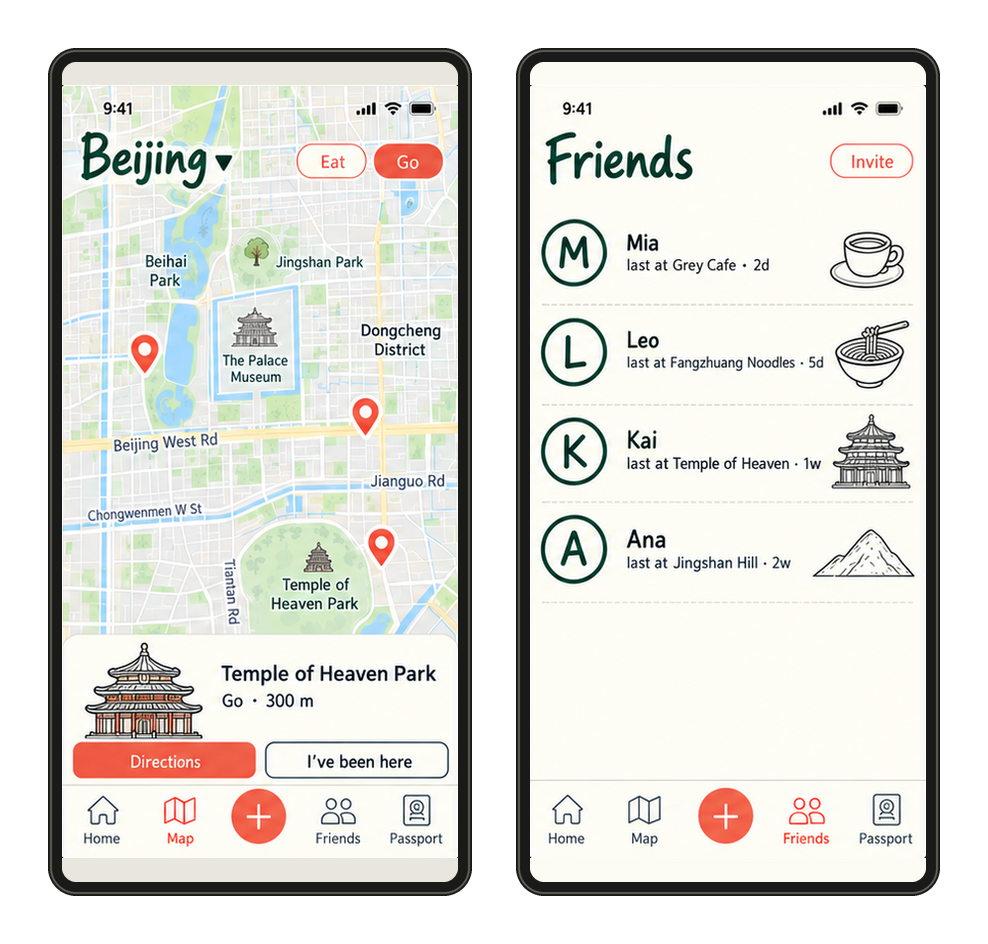
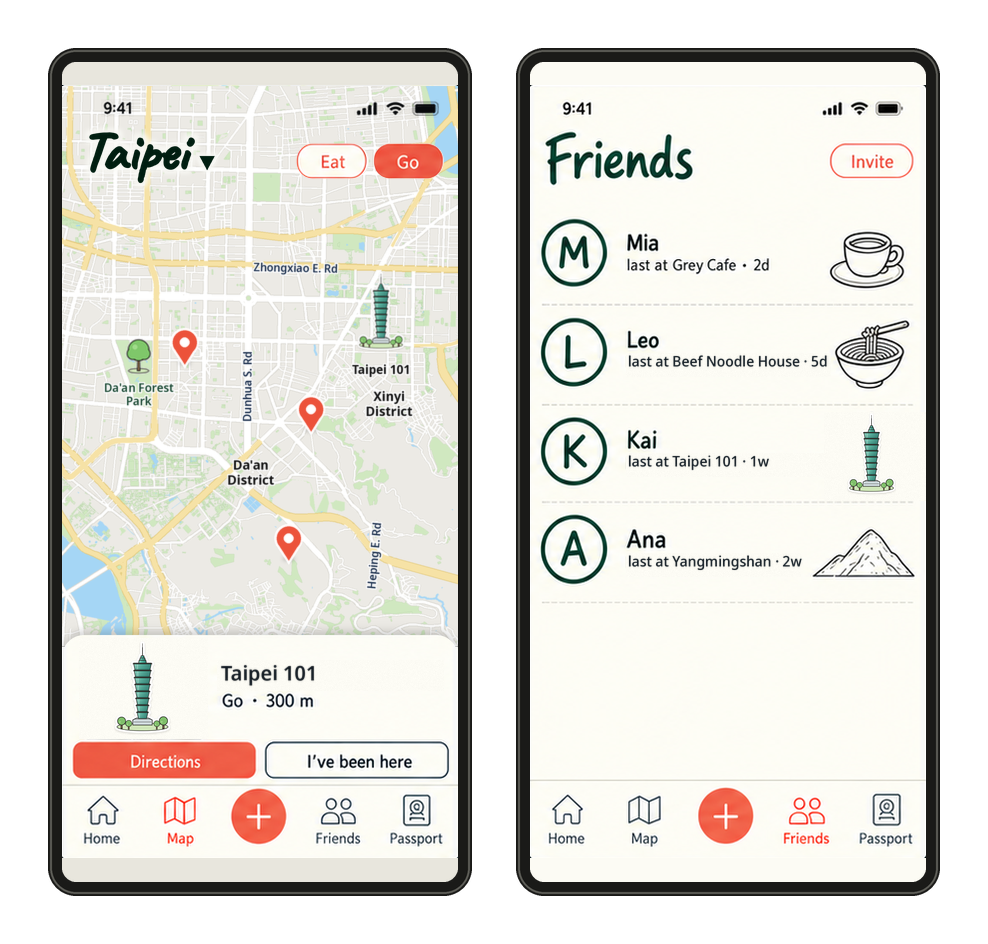
fix(landing): Taipei screenshots LCP hints and OSM attribution (#20)
* chore(assets): replace landing app screenshots with Taipei content (image-only)

* fix(landing): eager first-screen Taipei screenshot and OSM credit

Promote the visible language's first-screen app screenshot to eager +
fetchpriority=high so it can be LCP, keep the hidden zh/en twin lazy,
and add the CEO-approved OpenStreetMap attribution line in the footer.

* fix(landing): keep homepage static; eager only zh first-screen

Stop reading searchParams in page.tsx so `/` stays a CDN-cached static
route. Default-language phones-zh-2 is eager + fetchpriority=high; the
en twin stays lazy and loads when shown.

---------

diff --git a/tests/e2e/landing-lcp.spec.ts b/tests/e2e/landing-lcp.spec.ts
@@ -1,0 +1,154 @@
+import { expect, test, type Page } from "@playwright/test";
+import { noHorizontalOverflow } from "./helpers";
+
+async function firstScreenAttrs(page: Page, testId: string) {
+  const img = page.getByTestId(testId);
+  await expect(img).toHaveCount(1);
+  return {
+    loading: await img.getAttribute("loading"),
+    fetchPriority: (await img.getAttribute("fetchpriority")) ?? (await img.getAttribute("fetchPriority")),
+    src: await img.getAttribute("src"),
+  };
+}
+
+async function assertStaticFirstScreenHints(page: Page) {
+  const zh = await firstScreenAttrs(page, "first-screen-phone-zh");
+  const en = await firstScreenAttrs(page, "first-screen-phone-en");
+
+  expect(zh.loading, "default-language first-screen loading").toBe("eager");
+  expect(zh.fetchPriority, "default-language first-screen fetchpriority").toBe("high");
+  expect(en.loading, "en first-screen twin must stay lazy").toBe("lazy");
+  expect(en.fetchPriority, "en first-screen twin must not be high").not.toBe("high");
+}
+
+async function assertBelowFoldLazy(page: Page) {
+  const below = page.locator(
+    'img[src*="phones-zh-3"], img[src*="phones-en-3"], img[src*="phones-zh-4"], img[src*="phones-en-4"]',
+  );
+  const count = await below.count();
+  expect(count).toBe(4);
+  for (let i = 0; i < count; i++) {
+    await expect(below.nth(i)).toHaveAttribute("loading", "lazy");
+  }
+}
+
+test.describe("first-screen LCP hints and OSM credit", () => {
+  for (const { name, viewport } of [
+    { name: "desktop", viewport: { width: 1350, height: 940 } },
+    { name: "mobile", viewport: { width: 390, height: 844 } },
+  ]) {
+    test(`${name} zh first-screen is eager+high; en twin and below-fold stay lazy`, async ({ page }) => {
+      await page.setViewportSize(viewport);
+      const requested: string[] = [];
+      page.on("request", (req) => {
+        if (req.resourceType() === "image") requested.push(req.url());
+      });
+      await page.goto("/");
+      await page.waitForLoadState("domcontentloaded");
+      await assertStaticFirstScreenHints(page);
+      await assertBelowFoldLazy(page);
+
+      const phoneReqs = requested.filter((url) => /phones-(zh|en)-\d\.png/.test(url));
+      expect(phoneReqs.some((url) => url.includes("phones-zh-2.png"))).toBeTruthy();
+      expect(phoneReqs.some((url) => url.includes("phones-en-2.png")), "hidden en first-screen must not be fetched").toBeFalsy();
+    });
+
+    test(`${name} ?lang=en keeps static hints; en-2 loads when shown`, async ({ page }) => {
+      await page.setViewportSize(viewport);
+      const requested: string[] = [];
+      page.on("request", (req) => {
+        if (req.resourceType() === "image") requested.push(req.url());
+      });
+      await page.goto("/?lang=en");
+      await page.waitForLoadState("domcontentloaded");
+      await expect(page.locator("html")).toHaveAttribute("lang", "en");
+      await assertStaticFirstScreenHints(page);
+      await assertBelowFoldLazy(page);
+      await page.getByTestId("first-screen-phone-en").scrollIntoViewIfNeeded();
+      await expect(page.getByTestId("first-screen-phone-en")).toBeVisible();
+      await page.waitForTimeout(500);
+
+      const phoneReqs = requested.filter((url) => /phones-(zh|en)-\d\.png/.test(url));
+      expect(phoneReqs.some((url) => url.includes("phones-en-2.png"))).toBeTruthy();
+    });
+  }
+
+  for (const { label, viewport } of [
+    { label: "1350x940", viewport: { width: 1350, height: 940 } },
+    { label: "1440x900", viewport: { width: 1440, height: 900 } },
+    { label: "1920x1080", viewport: { width: 1920, height: 1080 } },
+    { label: "390x844", viewport: { width: 390, height: 844 } },
+  ]) {
+    test(`E-1 LCP at ${label} is not the map or a food photo`, async ({ page }) => {
+      await page.setViewportSize(viewport);
+      await page.goto("/");
+      await page.waitForLoadState("domcontentloaded");
+      await page.waitForTimeout(1500);
+      const lcp = await page.evaluate(() => {
+        return new Promise<{
+          tag: string;
+          src: string;
+          inMap: boolean;
+          isHeadline: boolean;
+          isBadge: boolean;
+          isFirstScreen: boolean;
+          isFood: boolean;
+        }>((resolve) => {
+          let last: PerformanceEntry & { element?: Element } | undefined;
+          const po = new PerformanceObserver((list) => {
+            last = list.getEntries().at(-1) as PerformanceEntry & { element?: Element };
+          });
+          po.observe({ type: "largest-contentful-paint", buffered: true });
+          setTimeout(() => {
+            po.disconnect();
+            const el = last?.element as HTMLElement | undefined;
+            const src = el instanceof HTMLImageElement ? el.getAttribute("src") ?? "" : "";
+            resolve({
+              tag: el?.tagName ?? "NONE",
+              src,
+              inMap: Boolean(el?.closest?.(".mapwrap, #mapcard, .map-slot, .map-stage")),
+              isHeadline: Boolean(el?.closest?.("h1, .hero .txt .h")),
+              isBadge: Boolean(el?.closest?.("[data-testid=hero-appstore]")),
+              isFirstScreen: Boolean(
+                el?.closest?.("[data-testid=first-screen-phone-zh], [data-testid=first-screen-phone-en]"),
+              ),
+              isFood: src.includes("/assets/food/") || Boolean(el?.closest?.(".ph, .fc .ph")),
+            });
+          }, 400);
+        });
+      });
+      expect(lcp.inMap, `${label} LCP was ${lcp.tag} inside the map`).toBeFalsy();
+      expect(lcp.isFood, `${label} LCP was food photo ${lcp.src}`).toBeFalsy();
+      expect(
+        lcp.isHeadline || lcp.isBadge || lcp.isFirstScreen,
+        `${label} LCP was ${lcp.tag} ${lcp.src}`,
+      ).toBeTruthy();
+    });
+  }
+
+  test("OSM attribution link is present with the licence href", async ({ page }) => {
+    await page.goto("/");
+    const link = page.getByTestId("osm-attribution");
+    await expect(link).toHaveText("Map data © OpenStreetMap contributors");
+    await expect(link).toHaveAttribute("href", "https://www.openstreetmap.org/copyright");
+    await expect(link).toHaveAttribute("rel", "noopener noreferrer");
+    await expect(link).toHaveCount(1);
+
+    await page.goto("/?lang=en");
+    await expect(page.getByTestId("osm-attribution")).toHaveAttribute(
+      "href",
+      "https://www.openstreetmap.org/copyright",
+    );
+    await expect(page.getByTestId("osm-attribution")).toHaveCount(1);
+  });
+
+  for (const width of [375, 390]) {
+    test(`OSM footer does not overflow at ${width}`, async ({ page }) => {
+      await page.setViewportSize({ width, height: 844 });
+      await page.goto("/");
+      await page.locator("footer.site").scrollIntoViewIfNeeded();
+      await expect(page.getByTestId("osm-attribution")).toBeVisible();
+      await noHorizontalOverflow(page);
+    });
+  }
+});

diff --git a/tests/e2e/hero-content.spec.ts b/tests/e2e/hero-content.spec.ts
@@ -77,7 +77,9 @@ test.describe("hero content and motion", () => {
     expect(firstParty).toEqual([]);
   });
 
-  test("E-1 LCP is the hero headline or badge, not the map", async ({ page }) => {
+  test("E-1 LCP is the hero headline, badge, or first-screen app screenshot — not the map or a food photo", async ({
+    page,
+  }) => {
     await page.setViewportSize({ width: 390, height: 844 });
     await page.goto("/");
     await page.waitForLoadState("domcontentloaded");
@@ -85,9 +87,12 @@ test.describe("hero content and motion", () => {
     const lcp = await page.evaluate(() => {
       return new Promise<{
         tag: string;
+        src: string;
         inMap: boolean;
         isHeadline: boolean;
         isBadge: boolean;
+        isFirstScreen: boolean;
+        isFood: boolean;
       }>((resolve) => {
         let last: PerformanceEntry & { element?: Element } | undefined;
         const po = new PerformanceObserver((list) => {
@@ -97,17 +102,27 @@ test.describe("hero content and motion", () => {
         setTimeout(() => {
           po.disconnect();
           const el = last?.element as HTMLElement | undefined;
+          const src = el instanceof HTMLImageElement ? el.getAttribute("src") ?? "" : "";
           resolve({
             tag: el?.tagName ?? "NONE",
-            inMap: Boolean(el?.closest?.(".mapwrap, #mapcard, .map-slot")),
+            src,
+            inMap: Boolean(el?.closest?.(".mapwrap, #mapcard, .map-slot, .map-stage")),
             isHeadline: Boolean(el?.closest?.("h1, .hero .txt .h")),
             isBadge: Boolean(el?.closest?.("[data-testid=hero-appstore]")),
+            isFirstScreen: Boolean(
+              el?.closest?.("[data-testid=first-screen-phone-zh], [data-testid=first-screen-phone-en]"),
+            ),
+            isFood: src.includes("/assets/food/") || Boolean(el?.closest?.(".ph, .fc .ph")),
           });
         }, 400);
       });
     });
     expect(lcp.inMap, `LCP was ${lcp.tag} inside the map`).toBeFalsy();
-    expect(lcp.isHeadline || lcp.isBadge, `LCP was ${lcp.tag}, expected headline or badge`).toBeTruthy();
+    expect(lcp.isFood, `LCP was food photo ${lcp.src}`).toBeFalsy();
+    expect(
+      lcp.isHeadline || lcp.isBadge || lcp.isFirstScreen,
+      `LCP was ${lcp.tag} ${lcp.src}, expected headline, badge, or first-screen screenshot`,
+    ).toBeTruthy();
   });
 
   test("D-5 reduced-motion via media query fades without flying", async ({ page }) => {

diff --git a/app/SavvyLanding.tsx b/app/SavvyLanding.tsx
@@ -4,10 +4,10 @@ import { HeroMapLazy } from "./metro/HeroMapLazy";
 import "./metro/hero-map.css";
 
 const STICKERS = [
-  { src: "/assets/st-duck.png", alt: "烤鴨" },
+  { src: "/assets/st-duck.png", alt: "珍珠奶茶" },
   { src: "/assets/st-noodle.png", alt: "麵碗" },
   { src: "/assets/st-coffee.png", alt: "咖啡杯" },
-  { src: "/assets/st-temple.png", alt: "寺廟" },
+  { src: "/assets/st-temple.png", alt: "台北101" },
   { src: "/assets/st-lantern.png", alt: "燈籠" },
 ] as const;
 
@@ -60,13 +60,16 @@ export default function SavvyLanding() {
               className="zh"
               src="/assets/phones-zh-2.png"
               alt="Savvy 蓋章與護照畫面"
-              loading="lazy"
+              data-testid="first-screen-phone-zh"
+              loading="eager"
+              fetchPriority="high"
               decoding="async"
             />
             <img
               className="en"
               src="/assets/phones-en-2.png"
               alt="Savvy stamp and Passport screens"
+              data-testid="first-screen-phone-en"
               loading="lazy"
               decoding="async"
             />
@@ -153,9 +156,9 @@ export default function SavvyLanding() {
           <p className="sub">Savvy: Turn links into pins</p>
           <AppStoreBadge />
           <div className="stkrow">
-            <img src="/assets/st-noodle.png" alt="" width={66} height={66} />
-            <img src="/assets/st-coffee.png" alt="" width={66} height={66} />
-            <img src="/assets/st-lantern.png" alt="" width={66} height={66} />
+            <img src="/assets/st-noodle.png" alt="" width={66} height={66} loading="lazy" decoding="async" />
+            <img src="/assets/st-coffee.png" alt="" width={66} height={66} loading="lazy" decoding="async" />
+            <img src="/assets/st-lantern.png" alt="" width={66} height={66} loading="lazy" decoding="async" />
           </div>
         </div>
       </section>

diff --git a/app/SiteChrome.tsx b/app/SiteChrome.tsx
@@ -100,6 +100,15 @@ function SiteFooter() {
       <a href={hrefWithLang("/privacy", lang)}>Savvy Privacy Policy</a>
       <a href={hrefWithLang("/support", lang)}>Savvy Support</a>
       <a href={`mailto:${SUPPORT_EMAIL}`}>{SUPPORT_EMAIL}</a>
+      <p>
+        <a
+          href="https://www.openstreetmap.org/copyright"
+          rel="noopener noreferrer"
+          data-testid="osm-attribution"
+        >
+          Map data © OpenStreetMap contributors
+        </a>
+      </p>
     </footer>
   );
 }

diff --git a/app/globals.css b/app/globals.css
@@ -279,6 +279,19 @@ footer.site a {
   line-height: 44px;
 }
 
+footer.site p {
+  margin: 8px 0 0;
+}
+
+footer.site p a {
+  display: inline;
+  margin: 0;
+  max-width: 100%;
+  white-space: normal;
+  overflow-wrap: anywhere;
+  line-height: 1.45;
+}
+
 .legal {
   max-width: 720px;
   margin: 0 auto;
